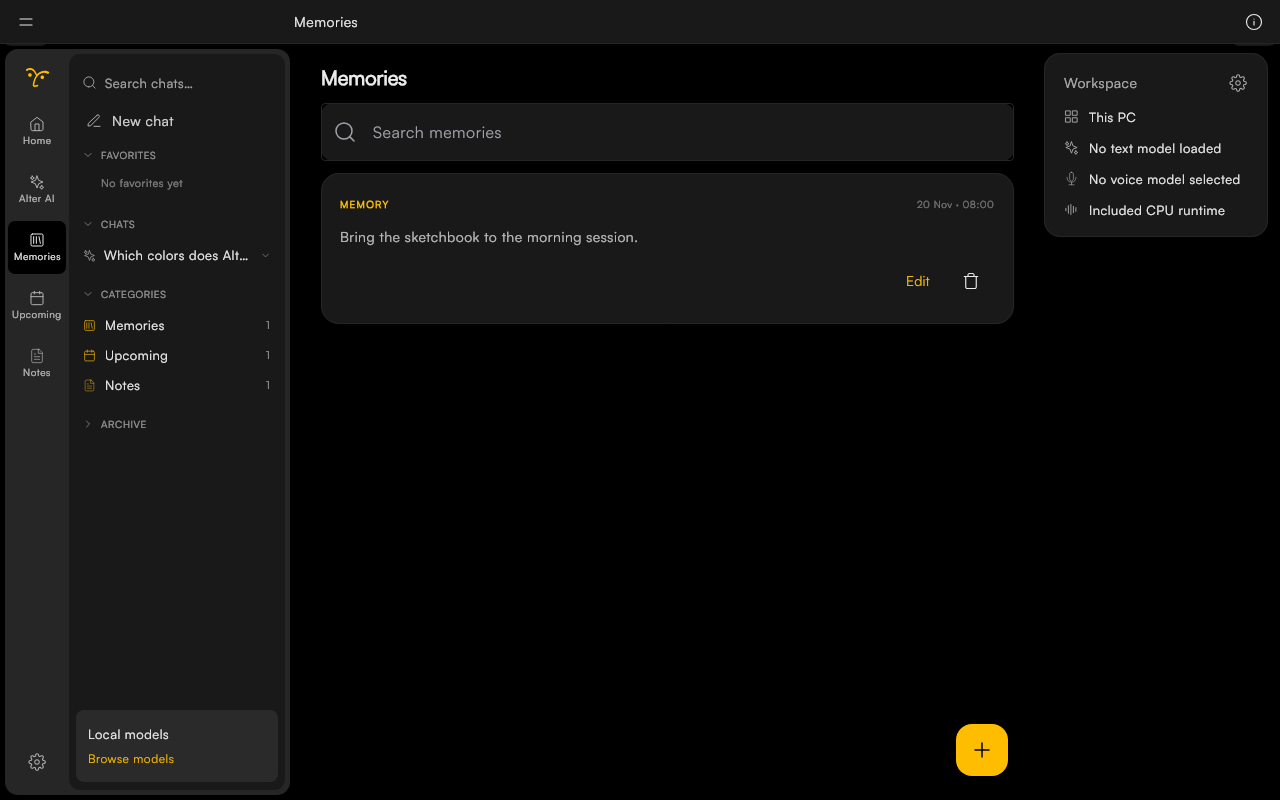
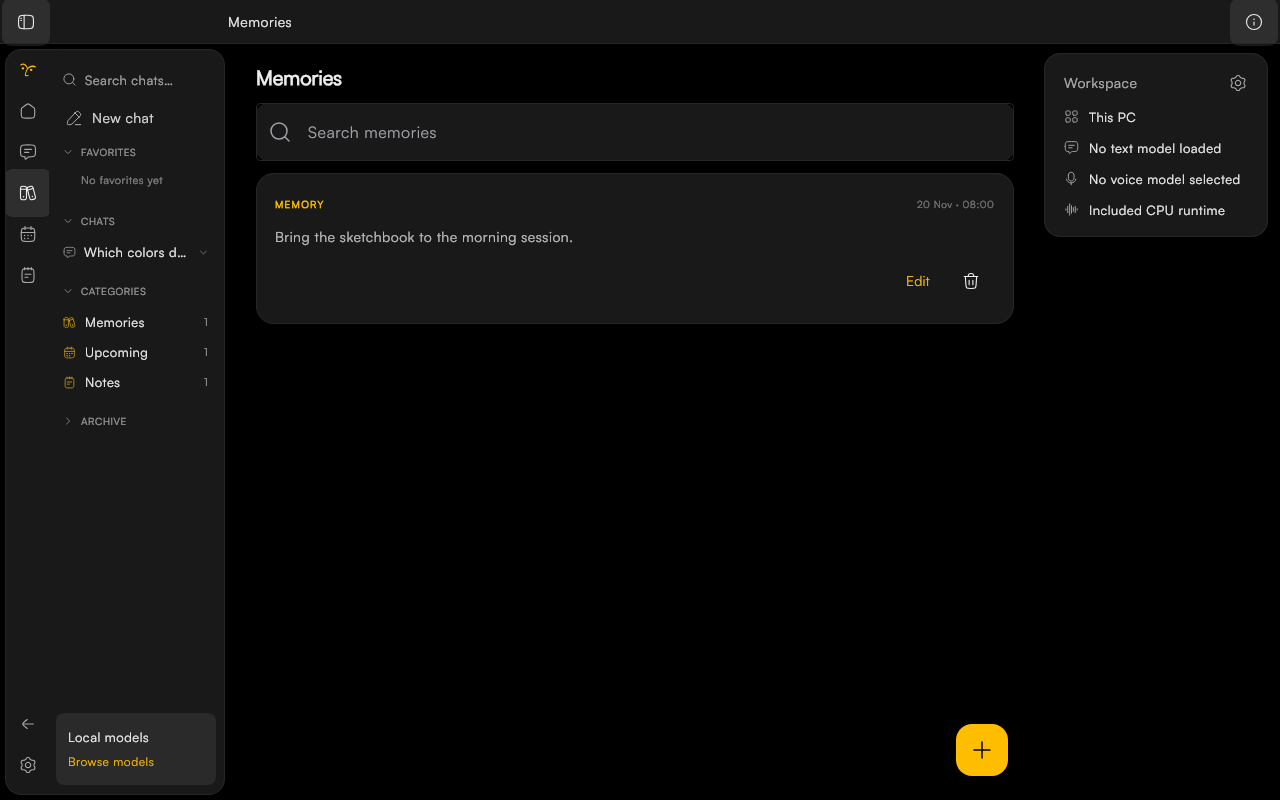
Compact the collapsible navigation and use rounded Hugeicons

diff --git a/src/main/kotlin/com/example/ui/AlterIcons.kt b/src/main/kotlin/com/example/ui/AlterIcons.kt
@@ -1,0 +1,58 @@
+package com.example.ui
+
+import androidx.compose.ui.graphics.*
+import androidx.compose.ui.graphics.vector.ImageVector
+import androidx.compose.ui.graphics.vector.PathParser
+import androidx.compose.ui.unit.dp
+
+/**
+ * App-wide icon set: Hugeicons free "Stroke Rounded" (MIT, @hugeicons/core-free-icons 4.4.0; notice in
+ * licenses/hugeicons-MIT.txt). 24-unit grid, 1.5 stroke, round caps/joins. Generated from the package data;
+ * the Alter AI mark (R.drawable.ic_alter_ai_doodle / AlterMark) is the only non-Hugeicons glyph.
+ * Each part is "S|d" (stroke), "F|d" (fill) or "B|d" (both), optionally "S@0.4|d" for opacity.
+ */
+object AlterIcons {
+    val ArrowLeft: ImageVector by lazy { huge("ArrowLeft02", "S|M5.5 12.002H19", "S|M10.9999 18.002C10.9999 18.002 4.99998 13.583 4.99997 12.0019C4.99996 10.4208 11 6.00195 11 6.00195") }
+    val ArrowRight: ImageVector by lazy { huge("ArrowRight02", "S|M18.5 12L4.99997 12", "S|M13 18C13 18 19 13.5811 19 12C19 10.4188 13 6 13 6") }
+    val Calendar: ImageVector by lazy { huge("Calendar03", "S|M16 2V6M8 2V6", "S|M13 4H11C7.22876 4 5.34315 4 4.17157 5.17157C3 6.34315 3 8.22876 3 12V14C3 17.7712 3 19.6569 4.17157 20.8284C5.34315 22 7.22876 22 11 22H13C16.7712 22 18.6569 22 19.8284 20.8284C21 19.6569 21 17.7712 21 14V12C21 8.22876 21 6.34315 19.8284 5.17157C18.6569 4 16.7712 4 13 4Z", "S|M3 10H21", "S|M12.1258 14H12.0008M12.1258 18H12.0008M7.625 14H7.5M7.625 18H7.5M16.625 14H16.5M12.2508 14C12.2508 14.1381 12.1389 14.25 12.0008 14.25C11.8628 14.25 11.7508 14.1381 11.7508 14C11.7508 13.8619 11.8628 13.75 12.0008 13.75C12.1389 13.75 12.2508 13.8619 12.2508 14ZM12.2508 18C12.2508 18.1381 12.1389 18.25 12.0008 18.25C11.8628 18.25 11.7508 18.1381 11.7508 18C11.7508 17.8619 11.8628 17.75 12.0008 17.75C12.1389 17.75 12.2508 17.8619 12.2508 18ZM7.75 14C7.75 14.1381 7.63807 14.25 7.5 14.25C7.36193 14.25 7.25 14.1381 7.25 14C7.25 13.8619 7.36193 13.75 7.5 13.75C7.63807 13.75 7.75 13.8619 7.75 14ZM7.75 18C7.75 18.1381 7.63807 18.25 7.5 18.25C7.36193 18.25 7.25 18.1381 7.25 18C7.25 17.8619 7.36193 17.75 7.5 17.75C7.63807 17.75 7.75 17.8619 7.75 18ZM16.75 14C16.75 14.1381 16.6381 14.25 16.5 14.25C16.3619 14.25 16.25 14.1381 16.25 14C16.25 13.8619 16.3619 13.75 16.5 13.75C16.6381 13.75 16.75 13.8619 16.75 14Z") }
+    val ChevronDown: ImageVector by lazy { huge("ArrowDown01", "S|M18 9.00005C18 9.00005 13.5811 15 12 15C10.4188 15 6 9 6 9") }
+    val ChevronRight: ImageVector by lazy { huge("ArrowRight01", "S|M9.00005 6C9.00005 6 15 10.4189 15 12C15 13.5812 9 18 9 18") }
+    val Copy: ImageVector by lazy { huge("Copy01", "S|M7.5 14.5C7.5 11.2002 7.5 9.55025 8.52513 8.52513C9.55025 7.5 11.2002 7.5 14.5 7.5C17.7998 7.5 19.4497 7.5 20.4749 8.52513C21.5 9.55025 21.5 11.2002 21.5 14.5C21.5 17.7998 21.5 19.4497 20.4749 20.4749C19.4497 21.5 17.7998 21.5 14.5 21.5C11.2002 21.5 9.55025 21.5 8.52513 20.4749C7.5 19.4497 7.5 17.7998 7.5 14.5Z", "S|M7.5 16.5C6.10355 16.5 5.40533 16.5 4.84402 16.3036C3.83866 15.9518 3.0482 15.1613 2.69641 14.156C2.5 13.5947 2.5 12.8964 2.5 11.5V9.5C2.5 6.20017 2.5 4.55025 3.52513 3.52513C4.55025 2.5 6.20017 2.5 9.5 2.5H11.5C12.8964 2.5 13.5947 2.5 14.156 2.69641C15.1613 3.0482 15.9518 3.83866 16.3036 4.84402C16.5 5.40533 16.5 6.10355 16.5 7.5") }
+    val Edit: ImageVector by lazy { huge("Edit02", "S|M14.0737 3.88545C14.8189 3.07808 15.1915 2.6744 15.5874 2.43893C16.5427 1.87076 17.7191 1.85309 18.6904 2.39232C19.0929 2.6158 19.4769 3.00812 20.245 3.79276C21.0131 4.5774 21.3972 4.96972 21.6159 5.38093C22.1438 6.37312 22.1265 7.57479 21.5703 8.5507C21.3398 8.95516 20.9446 9.33578 20.1543 10.097L10.7506 19.1543C9.25288 20.5969 8.504 21.3182 7.56806 21.6837C6.63212 22.0493 5.6032 22.0224 3.54536 21.9686L3.26538 21.9613C2.63891 21.9449 2.32567 21.9367 2.14359 21.73C1.9615 21.5234 1.98636 21.2043 2.03608 20.5662L2.06308 20.2197C2.20301 18.4235 2.27297 17.5255 2.62371 16.7182C2.97444 15.9109 3.57944 15.2555 4.78943 13.9445L14.0737 3.88545Z", "S|M13 4L20 11", "S|M14 22L22 22") }
+    val FileText: ImageVector by lazy { huge("Note01", "S|M16.5 2V5M7.5 2V5M12 2V5", "S|M13 3.5H11C7.70017 3.5 6.05025 3.5 5.02513 4.52513C4 5.55025 4 7.20017 4 10.5V15C4 18.2998 4 19.9497 5.02513 20.9749C6.05025 22 7.70017 22 11 22H13C16.2998 22 17.9497 22 18.9749 20.9749C20 19.9497 20 18.2998 20 15V10.5C20 7.20017 20 5.55025 18.9749 4.52512C17.9497 3.5 16.2998 3.5 13 3.5Z", "S|M8 15H12M8 11H16") }
+    val Grid: ImageVector by lazy { huge("GridView", "S|M3.88884 9.66294C4.39329 10 5.09552 10 6.49998 10C7.90445 10 8.60668 10 9.11113 9.66294C9.32951 9.51702 9.51701 9.32952 9.66292 9.11114C9.99998 8.60669 9.99998 7.90446 9.99998 6.5C9.99998 5.09554 9.99998 4.39331 9.66292 3.88886C9.51701 3.67048 9.32951 3.48298 9.11113 3.33706C8.60668 3 7.90445 3 6.49998 3C5.09552 3 4.39329 3 3.88884 3.33706C3.67046 3.48298 3.48296 3.67048 3.33705 3.88886C2.99998 4.39331 2.99998 5.09554 2.99998 6.5C2.99998 7.90446 2.99998 8.60669 3.33705 9.11114C3.48296 9.32952 3.67046 9.51702 3.88884 9.66294Z", "S|M14.8888 9.66294C15.3933 10 16.0955 10 17.5 10C18.9044 10 19.6067 10 20.1111 9.66294C20.3295 9.51702 20.517 9.32952 20.6629 9.11114C21 8.60669 21 7.90446 21 6.5C21 5.09554 21 4.39331 20.6629 3.88886C20.517 3.67048 20.3295 3.48298 20.1111 3.33706C19.6067 3 18.9044 3 17.5 3C16.0955 3 15.3933 3 14.8888 3.33706C14.6705 3.48298 14.483 3.67048 14.337 3.88886C14 4.39331 14 5.09554 14 6.5C14 7.90446 14 8.60669 14.337 9.11114C14.483 9.32952 14.6705 9.51702 14.8888 9.66294Z", "S|M3.88884 20.6629C4.39329 21 5.09552 21 6.49998 21C7.90445 21 8.60668 21 9.11113 20.6629C9.32951 20.517 9.51701 20.3295 9.66292 20.1111C9.99998 19.6067 9.99998 18.9045 9.99998 17.5C9.99998 16.0955 9.99998 15.3933 9.66292 14.8889C9.51701 14.6705 9.32951 14.483 9.11113 14.3371C8.60668 14 7.90445 14 6.49998 14C5.09552 14 4.39329 14 3.88884 14.3371C3.67046 14.483 3.48296 14.6705 3.33705 14.8889C2.99998 15.3933 2.99998 16.0955 2.99998 17.5C2.99998 18.9045 2.99998 19.6067 3.33705 20.1111C3.48296 20.3295 3.67046 20.517 3.88884 20.6629Z", "S|M14.8888 20.6629C15.3933 21 16.0955 21 17.5 21C18.9044 21 19.6067 21 20.1111 20.6629C20.3295 20.517 20.517 20.3295 20.6629 20.1111C21 19.6067 21 18.9045 21 17.5C21 16.0955 21 15.3933 20.6629 14.8889C20.517 14.6705 20.3295 14.483 20.1111 14.3371C19.6067 14 18.9044 14 17.5 14C16.0955 14 15.3933 14 14.8888 14.3371C14.6705 14.483 14.483 14.6705 14.337 14.8889C14 15.3933 14 16.0955 14 17.5C14 18.9045 14 19.6067 14.337 20.1111C14.483 20.3295 14.6705 20.517 14.8888 20.6629Z") }
+    val Home: ImageVector by lazy { huge("Home01", "S|M3 11.9896V14.5C3 17.7998 3 19.4497 4.02513 20.4749C5.05025 21.5 6.70017 21.5 10 21.5H14C17.2998 21.5 18.9497 21.5 19.9749 20.4749C21 19.4497 21 17.7998 21 14.5V11.9896C21 10.3083 21 9.46773 20.6441 8.74005C20.2882 8.01237 19.6247 7.49628 18.2976 6.46411L16.2976 4.90855C14.2331 3.30285 13.2009 2.5 12 2.5C10.7991 2.5 9.76689 3.30285 7.70242 4.90855L5.70241 6.46411C4.37533 7.49628 3.71179 8.01237 3.3559 8.74005C3 9.46773 3 10.3083 3 11.9896Z") }
+    val Info: ImageVector by lazy { huge("InformationCircle", "S|M2 12a10 10 0 1 0 20 0a10 10 0 1 0 -20 0Z", "S|M12 16V12", "S|M12.125 8.25H12M12.25 8.25C12.25 8.11193 12.1381 8 12 8C11.8619 8 11.75 8.11193 11.75 8.25C11.75 8.38807 11.8619 8.5 12 8.5C12.1381 8.5 12.25 8.38807 12.25 8.25Z") }
+    val Memories: ImageVector by lazy { huge("Library", "S|M2 7C2 5.59987 2 4.8998 2.27248 4.36502C2.51217 3.89462 2.89462 3.51217 3.36502 3.27248C3.8998 3 4.59987 3 6 3C7.40013 3 8.1002 3 8.63498 3.27248C9.10538 3.51217 9.48783 3.89462 9.72752 4.36502C10 4.8998 10 5.59987 10 7V17C10 18.4001 10 19.1002 9.72752 19.635C9.48783 20.1054 9.10538 20.4878 8.63498 20.7275C8.1002 21 7.40013 21 6 21C4.59987 21 3.8998 21 3.36502 20.7275C2.89462 20.4878 2.51217 20.1054 2.27248 19.635C2 19.1002 2 18.4001 2 17V7Z", "S|M6.125 17H6M6.25 17C6.25 17.1381 6.13807 17.25 6 17.25C5.86193 17.25 5.75 17.1381 5.75 17C5.75 16.8619 5.86193 16.75 6 16.75C6.13807 16.75 6.25 16.8619 6.25 17Z", "S|M17.9062 16.6934H17.7812M18.0312 16.6934C18.0312 16.8314 17.9193 16.9434 17.7812 16.9434C17.6432 16.9434 17.5312 16.8314 17.5312 16.6934C17.5312 16.5553 17.6432 16.4434 17.7812 16.4434C17.9193 16.4434 18.0312 16.5553 18.0312 16.6934Z", "S|M2 7H10", "S|M11.4486 8.26843C11.0937 6.93838 10.9163 6.27336 11.0385 5.69599C11.146 5.18812 11.4108 4.72747 11.7951 4.38005C12.2319 3.98508 12.8942 3.80689 14.2187 3.4505C15.5432 3.09412 16.2055 2.91593 16.7804 3.03865C17.2862 3.1466 17.7449 3.41256 18.0909 3.79841C18.4842 4.23706 18.6617 4.90209 19.0166 6.23213L21.5514 15.7316C21.9063 17.0616 22.0837 17.7266 21.9615 18.304C21.854 18.8119 21.5892 19.2725 21.2049 19.62C20.7681 20.0149 20.1058 20.1931 18.7813 20.5495C17.4568 20.9059 16.7945 21.0841 16.2196 20.9614C15.7138 20.8534 15.2551 20.5874 14.9091 20.2016C14.5158 19.7629 14.3383 19.0979 13.9834 17.7679L11.4486 8.26843Z", "S|M12 8.00019L18.5001 6") }
+    val Mic: ImageVector by lazy { huge("Mic01", "S|M7 6.5C7 4.01472 9.01472 2 11.5 2C13.9853 2 16 4.01472 16 6.5V11.5C16 13.9853 13.9853 16 11.5 16C9.01472 16 7 13.9853 7 11.5V6.5Z", "S|M11.5 19H11.0828C7.57267 19 4.57706 16.4623 4 13M11.5 19H11.9172C15.4273 19 18.4229 16.4623 19 13M11.5 19V22") }
+    val Pin: ImageVector by lazy { huge("Pin", "S|M3 21L8 16", "S|M13.2585 18.8714C9.51516 18.0215 5.97844 14.4848 5.12853 10.7415C4.99399 10.1489 4.92672 9.85266 5.12161 9.37197C5.3165 8.89129 5.55457 8.74255 6.03071 8.44509C7.10705 7.77265 8.27254 7.55888 9.48209 7.66586C11.1793 7.81598 12.0279 7.89104 12.4512 7.67048C12.8746 7.44991 13.1622 6.93417 13.7376 5.90269L14.4664 4.59604C14.9465 3.73528 15.1866 3.3049 15.7513 3.10202C16.316 2.89913 16.6558 3.02199 17.3355 3.26771C18.9249 3.84236 20.1576 5.07505 20.7323 6.66449C20.978 7.34417 21.1009 7.68401 20.898 8.2487C20.6951 8.8134 20.2647 9.05346 19.4039 9.53358L18.0672 10.2792C17.0376 10.8534 16.5229 11.1406 16.3024 11.568C16.0819 11.9955 16.162 12.8256 16.3221 14.4859C16.4399 15.7068 16.2369 16.88 15.5555 17.9697C15.2577 18.4458 15.1088 18.6839 14.6283 18.8786C14.1477 19.0733 13.8513 19.006 13.2585 18.8714Z") }
+    val Plus: ImageVector by lazy { huge("Add01", "S|M12.001 4.00101V20.001", "S|M20.001 12.001L4.00098 12.001") }
+    val Search: ImageVector by lazy { huge("Search01", "S|M17 17L21 21", "S|M19 11C19 6.58172 15.4183 3 11 3C6.58172 3 3 6.58172 3 11C3 15.4183 6.58172 19 11 19C15.4183 19 19 15.4183 19 11Z") }
+    val Settings: ImageVector by lazy { huge("Settings01", "S|M3.95631 10.5829L3.03254 9.07084C2.74505 8.60024 2.7389 8.00978 3.01652 7.5333L3.63533 6.47124C3.90953 6.00064 4.41721 5.71571 4.96162 5.7269L6.69131 5.76245C6.92616 5.76728 7.15379 5.68727 7.34333 5.54846C7.79531 5.21745 8.28334 4.93276 8.80042 4.70139C9.01191 4.60675 9.19222 4.45165 9.30469 4.24903L10.1203 2.77965C10.3847 2.30328 10.8865 2.00781 11.4312 2.00781H12.6937C13.2384 2.00781 13.7403 2.30329 14.0047 2.77966L14.8202 4.24902C14.9327 4.45165 15.113 4.60675 15.3245 4.70139C15.8416 4.93274 16.3296 5.2174 16.7815 5.54838C16.9711 5.68718 17.1987 5.76718 17.4336 5.76235L19.1634 5.72676C19.7078 5.71557 20.2155 6.00049 20.4897 6.47111L21.1085 7.53314C21.3862 8.00963 21.38 8.60009 21.0925 9.07068L20.1687 10.5828C20.0481 10.7803 20.002 11.0134 20.0235 11.2439C20.0707 11.7486 20.0707 12.267 20.0235 12.7717C20.002 13.0022 20.0481 13.2353 20.1687 13.4329L21.0924 14.9448C21.3799 15.4154 21.3861 16.0058 21.1084 16.4823L20.4896 17.5444C20.2154 18.015 19.7077 18.2999 19.1633 18.2887L17.4338 18.2531C17.1989 18.2483 16.9713 18.3283 16.7817 18.4671C16.3297 18.7982 15.8416 19.0829 15.3245 19.3142C15.113 19.4089 14.9327 19.564 14.8202 19.7666L14.0047 21.236C13.7403 21.7123 13.2384 22.0078 12.6937 22.0078H11.4312C10.8866 22.0078 10.3847 21.7123 10.1203 21.236L9.30468 19.7665C9.19222 19.5639 9.01191 19.4088 8.80042 19.3142C8.28329 19.0828 7.79519 18.798 7.34316 18.467C7.15362 18.3282 6.92597 18.2482 6.69111 18.253L4.96175 18.2886C4.41733 18.2998 3.90963 18.0148 3.63543 17.5442L3.01663 16.4822C2.739 16.0057 2.74515 15.4152 3.03264 14.9446L3.95631 13.4327C4.07699 13.2351 4.12309 13.002 4.10154 12.7715C4.05437 12.267 4.05438 11.7486 4.10154 11.244C4.12308 11.0135 4.07699 10.7805 3.95631 10.5829Z", "S|M8.5625 12.0078a3.5 3.5 0 1 0 7 0a3.5 3.5 0 1 0 -7 0Z") }
+    val Stop: ImageVector by lazy { huge("Stop", "S|M4 12C4 8.72077 4 7.08116 4.81382 5.91891C5.1149 5.48891 5.48891 5.1149 5.91891 4.81382C7.08116 4 8.72077 4 12 4C15.2792 4 16.9188 4 18.0811 4.81382C18.5111 5.1149 18.8851 5.48891 19.1862 5.91891C20 7.08116 20 8.72077 20 12C20 15.2792 20 16.9188 19.1862 18.0811C18.8851 18.5111 18.5111 18.8851 18.0811 19.1862C16.9188 20 15.2792 20 12 20C8.72077 20 7.08116 20 5.91891 19.1862C5.48891 18.8851 5.1149 18.5111 4.81382 18.0811C4 16.9188 4 15.2792 4 12Z") }
+    val Trash: ImageVector by lazy { huge("Delete02", "S|M18.8516 16.3743L19.5 6H4.5L5.14839 16.3743C5.315 19.0401 5.39831 20.373 6.26426 21.1865C7.13021 22 8.46571 22 11.1367 22H12.8633C15.5343 22 16.8698 22 17.7357 21.1865C18.6017 20.373 18.685 19.0401 18.8516 16.3743Z", "S|M16 6H21M16 6L15.3778 4.34082C15.0007 3.33524 14.8122 2.83245 14.4402 2.50292C14.3213 2.39765 14.1904 2.3069 14.0501 2.2326C13.6109 2 13.074 2 12 2C10.926 2 10.3891 2 9.9499 2.2326C9.8096 2.3069 9.67865 2.39765 9.55982 2.50292C9.18783 2.83245 8.99928 3.33524 8.62219 4.34082L8 6M16 6H8M3 6H8", "S|M9.5 11V17M14.5 11V17") }
+    val Waves: ImageVector by lazy { huge("AudioWave01", "S|M9 3V21", "S|M6 7V17", "S|M12 6V18", "S|M15 9L15 15", "S|M18 7L18 17", "S|M21 11L21 13", "S|M3 11L3 13") }
+
+    val Chat: ImageVector by lazy { huge("Chat01", "S|M7.5 8.5H16.5M7.5 12.5H13", "S|M2 10.5C2 9.72921 2.01346 8.97679 2.03909 8.2503C2.12282 5.87683 2.16469 4.69009 3.13007 3.71745C4.09545 2.74481 5.3157 2.6926 7.7562 2.58819C9.09517 2.5309 10.5209 2.5 12 2.5C13.4791 2.5 14.9048 2.5309 16.2438 2.58819C18.6843 2.6926 19.9046 2.74481 20.8699 3.71745C21.8353 4.69009 21.8772 5.87683 21.9609 8.2503C21.9865 8.97679 22 9.72921 22 10.5C22 11.2708 21.9865 12.0232 21.9609 12.7497C21.8772 15.1232 21.8353 16.3099 20.8699 17.2826C19.9046 18.2552 18.6843 18.3074 16.2437 18.4118C15.5098 18.4432 14.7498 18.4667 13.9693 18.4815C13.2282 18.4955 12.8576 18.5026 12.532 18.6266C12.2064 18.7506 11.9325 18.9855 11.3845 19.4553L9.20503 21.3242C9.07273 21.4376 8.90419 21.5 8.72991 21.5C8.32679 21.5 8 21.1732 8 20.7701V18.4219C7.91842 18.4186 7.83715 18.4153 7.75619 18.4118C5.31569 18.3074 4.09545 18.2552 3.13007 17.2825C2.16469 16.3099 2.12282 15.1232 2.03909 12.7497C2.01346 12.0232 2 11.2708 2 10.5Z") }
+
+    val SidebarLeft: ImageVector by lazy { huge("SidebarLeft", "S|M2 12C2 8.31087 2 6.4663 2.81382 5.15877C3.1149 4.67502 3.48891 4.25427 3.91891 3.91554C5.08116 3 6.72077 3 10 3H14C17.2792 3 18.9188 3 20.0811 3.91554C20.5111 4.25427 20.8851 4.67502 21.1862 5.15877C22 6.4663 22 8.31087 22 12C22 15.6891 22 17.5337 21.1862 18.8412C20.8851 19.325 20.5111 19.7457 20.0811 20.0845C18.9188 21 17.2792 21 14 21H10C6.72077 21 5.08116 21 3.91891 20.0845C3.48891 19.7457 3.1149 19.325 2.81382 18.8412C2 17.5337 2 15.6891 2 12Z", "S|M9.5 3L9.5 21", "S|M5 7H6M5 10H6") }
+
+    private fun huge(name: String, vararg parts: String): ImageVector =
+        ImageVector.Builder("Hugeicons.$name", 24.dp, 24.dp, 24f, 24f).apply {
+            parts.forEach { part ->
+                val head = part.substringBefore('|')
+                val mode = head.first()
+                val alpha = head.substringAfter('@', "1").toFloat()
+                addPath(
+                    PathParser().parsePathString(part.substringAfter('|')).toNodes(),
+                    fill = if (mode == 'F' || mode == 'B') SolidColor(Color.White) else null,
+                    fillAlpha = alpha,
+                    stroke = if (mode == 'S' || mode == 'B') SolidColor(Color.White) else null,
+                    strokeAlpha = alpha,
+                    strokeLineWidth = 1.5f,
+                    strokeLineCap = StrokeCap.Round,
+                    strokeLineJoin = StrokeJoin.Round
+                )
+            }
+        }.build()
+}

diff --git a/src/main/kotlin/alter/Workspace.kt b/src/main/kotlin/alter/Workspace.kt
@@ -19,12 +19,12 @@ import androidx.compose.ui.semantics.*
 import androidx.compose.ui.text.font.FontWeight
 import androidx.compose.ui.text.style.TextOverflow
 import androidx.compose.ui.unit.*
-import com.example.ui.Lucide
+import com.example.ui.AlterIcons
 import com.example.ui.theme.AlterYellow
 
 internal enum class Destination(val title: String, val icon: ImageVector) {
-    Home("Home", Lucide.Home), Chat("Alter AI", Lucide.Sparkles), Memories("Memories", Lucide.Memories),
-    Upcoming("Upcoming", Lucide.Calendar), Notes("Notes", Lucide.FileText)
+    Home("Home", AlterIcons.Home), Chat("Alter AI", AlterIcons.Chat), Memories("Memories", AlterIcons.Memories),
+    Upcoming("Upcoming", AlterIcons.Calendar), Notes("Notes", AlterIcons.FileText)
 }
 internal val settingsPages = listOf("Appearance", "AI models", "Voice & files", "Backup & account", "About")
 
@@ -35,7 +35,7 @@ internal fun WorkspaceButton(icon: ImageVector, label: String, selected: Boolean
     TooltipArea(tooltip = { Surface(shape = RoundedCornerShape(6.dp), shadowElevation = 4.dp) {
         Text(label, Modifier.padding(horizontal = 9.dp, vertical = 5.dp), fontSize = 12.sp)
     } }) {
-        IconButton(onClick, Modifier.size(36.dp).background(if (selected) c.secondaryContainer else Color.Transparent,
+        IconButton(onClick, Modifier.size(36.dp).background(if (selected) c.onSurface.copy(alpha = .10f) else Color.Transparent,
             RoundedCornerShape(9.dp)).semantics { this.selected = selected }) {
             Icon(icon, label, Modifier.size(18.dp), tint = c.onSurface.copy(alpha = if (selected) 1f else .68f))
         }
@@ -43,23 +43,18 @@ internal fun WorkspaceButton(icon: ImageVector, label: String, selected: Boolean
 }
 
 @Composable
-internal fun ActivityRail(current: Destination, settings: Boolean, select: (Destination) -> Unit, openSettings: () -> Unit) {
+internal fun ActivityRail(current: Destination, settings: Boolean, select: (Destination) -> Unit, openSettings: () -> Unit, collapse: (() -> Unit)?) {
     val c = MaterialTheme.colorScheme
-    Column(Modifier.width(64.dp).fillMaxHeight().padding(vertical = 10.dp, horizontal = 3.dp),
+    Column(Modifier.width(42.dp).fillMaxHeight().padding(vertical = 10.dp, horizontal = 3.dp),
         horizontalAlignment = Alignment.CenterHorizontally, verticalArrangement = Arrangement.spacedBy(5.dp)) {
-        Icon(painterResource("alter-logo.xml"), "Alter", Modifier.padding(bottom = 9.dp).size(27.dp), AlterYellow)
+        Icon(painterResource("alter-logo.xml"), "Alter", Modifier.padding(bottom = 9.dp).size(18.dp), AlterYellow)
         Destination.entries.forEach { tab ->
             val selected = !settings && current == tab
-            Column(Modifier.fillMaxWidth().height(53.dp).clip(RoundedCornerShape(7.dp))
-                .background(if (selected) c.background else Color.Transparent).semantics { this.selected = selected }
-                .clickable(role = Role.Tab) { select(tab) }, verticalArrangement = Arrangement.Center,
-                horizontalAlignment = Alignment.CenterHorizontally) {
-                Icon(tab.icon, null, Modifier.size(16.dp), tint = c.onSurface.copy(alpha = if (selected) 1f else .70f))
-                Text(tab.title, fontSize = 10.sp, lineHeight = 16.sp, color = c.onSurface.copy(alpha = if (selected) 1f else .75f))
-            }
+            WorkspaceButton(tab.icon, tab.title, selected) { select(tab) }
         }
         Spacer(Modifier.weight(1f))
-        WorkspaceButton(Lucide.Settings, "Settings", settings, openSettings)
+        collapse?.let { WorkspaceButton(AlterIcons.ArrowLeft, "Collapse navigation", onClick = it) }
+        WorkspaceButton(AlterIcons.Settings, "Settings", settings, openSettings)
     }
 }
 
@@ -68,7 +63,7 @@ internal fun WorkspaceRow(title: String, icon: ImageVector? = null, selected: Bo
     enabled: Boolean = true, onClick: () -> Unit) {
     val c = MaterialTheme.colorScheme
     Row(Modifier.fillMaxWidth().height(36.dp).clip(RoundedCornerShape(8.dp))
-        .background(if (selected) c.secondaryContainer else Color.Transparent)
+        .background(if (selected) c.onSurface.copy(alpha = .10f) else Color.Transparent)
         .clickable(enabled = enabled, role = Role.Button, onClick = onClick).padding(horizontal = 10.dp),
         verticalAlignment = Alignment.CenterVertically, horizontalArrangement = Arrangement.spacedBy(10.dp)) {
         if (icon != null) Icon(icon, null, Modifier.size(16.dp), tint = c.onSurface.copy(alpha = .70f))
@@ -82,7 +77,7 @@ private fun SectionHeader(name: String, expanded: Boolean, toggle: () -> Unit) {
     val tint = MaterialTheme.colorScheme.onSurface.copy(alpha = .60f)
     Row(Modifier.fillMaxWidth().height(32.dp).clickable(role = Role.Button, onClick = toggle).padding(horizontal = 6.dp),
         verticalAlignment = Alignment.CenterVertically, horizontalArrangement = Arrangement.spacedBy(7.dp)) {
-        Icon(if (expanded) Lucide.ChevronDown else Lucide.ChevronRight, if (expanded) "Collapse" else "Expand", Modifier.size(12.dp), tint)
+        Icon(if (expanded) AlterIcons.ChevronDown else AlterIcons.ChevronRight, if (expanded) "Collapse" else "Expand", Modifier.size(12.dp), tint)
         Text(name.uppercase(), fontSize = 10.sp, letterSpacing = .6.sp, color = tint)
     }
 }
@@ -95,7 +90,7 @@ internal fun WorkspaceSidebar(settings: String?, active: Long?, threads: List<Ch
     val c = MaterialTheme.colorScheme
     val expanded = remember { mutableStateMapOf("Favorites" to true, "Chats" to true, "Categories" to true, "Archive" to false) }
     Column(Modifier.fillMaxSize().clip(RoundedCornerShape(11.dp)).background(
-        c.surfaceContainerLow).padding(vertical = 8.dp, horizontal = 7.dp)) {
+        c.surface).padding(vertical = 8.dp, horizontal = 7.dp)) {
         if (settings != null) {
             Text("Settings", Modifier.padding(10.dp), fontSize = 16.sp, fontWeight = FontWeight.Bold)
             settingsPages.forEach { WorkspaceRow(it, selected = settings == it) { openSettings(it) } }
@@ -105,11 +100,11 @@ internal fun WorkspaceSidebar(settings: String?, active: Long?, threads: List<Ch
                 cursorBrush = SolidColor(c.primary), decorationBox = { inner ->
                     Row(Modifier.height(29.dp), verticalAlignment = Alignment.CenterVertically,
                         horizontalArrangement = Arrangement.spacedBy(8.dp)) {
-                        Icon(Lucide.Search, null, Modifier.size(15.dp), c.onSurface.copy(alpha = .65f))
+                        Icon(AlterIcons.Search, null, Modifier.size(15.dp), c.onSurface.copy(alpha = .65f))
                         Box(Modifier.weight(1f)) { if (search.isEmpty()) Text("Search chats…", fontSize = 13.sp, color = c.onSurface.copy(alpha = .66f)); inner() }
                     }
                 })
-            WorkspaceRow("New chat", Lucide.Edit, enabled = canSwitch, onClick = newChat)
+            WorkspaceRow("New chat", AlterIcons.Edit, enabled = canSwitch, onClick = newChat)
             LazyColumn(Modifier.fillMaxWidth().weight(1f)) {
                 if (search.isNotBlank() && threads.isEmpty()) item { Text("No matching chats", Modifier.padding(8.dp), fontSize = 13.sp) }
                 for (name in listOf("Favorites", "Chats", "Categories", "Archive")) {
@@ -143,14 +138,14 @@ internal fun WorkspaceSidebar(settings: String?, active: Long?, threads: List<Ch
                                 verticalAlignment = Alignment.CenterVertically) {
                                 Row(Modifier.weight(1f).fillMaxHeight().clickable(enabled = canSwitch) { openThread(thread.id) }.padding(start = 7.dp),
                                     verticalAlignment = Alignment.CenterVertically, horizontalArrangement = Arrangement.spacedBy(8.dp)) {
-                                    Icon(if (thread.favorite) Lucide.Pin else Lucide.Sparkles, null, Modifier.size(13.dp),
+                                    Icon(if (thread.favorite) AlterIcons.Pin else AlterIcons.Chat, null, Modifier.size(13.dp),
                                         if (thread.favorite) c.primary else c.onSurface.copy(alpha = .6f))
                                     Text(thread.title, fontSize = 13.sp, maxLines = 1, overflow = TextOverflow.Ellipsis)
                                 }
                                 Box {
                                     Box(Modifier.size(26.dp).clickable(enabled = canSwitch) { menu = true }
                                         .semantics { contentDescription = "Chat options for ${thread.title}" }, contentAlignment = Alignment.Center) {
-                                        Icon(Lucide.ChevronDown, null, Modifier.size(11.dp), c.onSurface.copy(alpha = .58f))
+                                        Icon(AlterIcons.ChevronDown, null, Modifier.size(11.dp), c.onSurface.copy(alpha = .58f))
                                     }
                                     DropdownMenu(menu, { menu = false }) {
                                         DropdownMenuItem(text = { Text(if (thread.favorite) "Remove from favorites" else "Add to favorites") },
@@ -182,10 +177,10 @@ internal fun WorkspaceDetails(model: String?, voice: String?, runtime: String, m
         .border(1.dp, c.outline, RoundedCornerShape(16.dp)).padding(12.dp)) {
         Row(Modifier.padding(start = 8.dp), verticalAlignment = Alignment.CenterVertically) {
             Text("Workspace", Modifier.weight(1f), fontSize = 14.sp, color = c.onSurface.copy(alpha = .70f))
-            WorkspaceButton(Lucide.Settings, "Manage local models", onClick = manage)
+            WorkspaceButton(AlterIcons.Settings, "Manage local models", onClick = manage)
         }
-        listOf(Lucide.Grid to "This PC", Lucide.Sparkles to (model ?: "No text model loaded"),
-            Lucide.Mic to (voice ?: "No voice model selected"), Lucide.Waves to runtime).forEach { (icon, label) ->
+        listOf(AlterIcons.Grid to "This PC", AlterIcons.Chat to (model ?: "No text model loaded"),
+            AlterIcons.Mic to (voice ?: "No voice model selected"), AlterIcons.Waves to runtime).forEach { (icon, label) ->
             Row(Modifier.fillMaxWidth().heightIn(min = 31.dp).padding(horizontal = 8.dp),
                 verticalAlignment = Alignment.CenterVertically, horizontalArrangement = Arrangement.spacedBy(10.dp)) {
                 Icon(icon, null, Modifier.size(15.dp), tint = c.onSurface.copy(alpha = .68f))

diff --git a/src/main/kotlin/alter/Main.kt b/src/main/kotlin/alter/Main.kt
@@ -259,20 +259,20 @@ private fun AlterApp(store: Store, active: Boolean, preview: String?) {
                     Row(Modifier.fillMaxWidth().height(43.dp).background(colors.surface).padding(horizontal = 8.dp),
                         verticalAlignment = Alignment.CenterVertically) {
                         Box {
-                            WorkspaceButton(Lucide.Menu, "Toggle side panel", sidebar) { sidebar = !sidebar }
+                            WorkspaceButton(AlterIcons.SidebarLeft, if (sidebar) "Collapse navigation" else "Expand navigation", sidebar) { sidebar = !sidebar }
                             if (compact) DropdownMenu(sidebar, { sidebar = false }) {
                                 Box(Modifier.width(245.dp).height(365.dp)) { sidebarContent() }
                             }
                         }
-                        if (sidebar && !compact) Spacer(Modifier.width(236.dp))
+                        if (sidebar && !compact) Spacer(Modifier.width(170.dp))
                         Text(settings ?: if (destination == Destination.Chat) selectedThread?.title ?: "New chat"
                             else destination.title, Modifier.weight(1f).padding(horizontal = 14.dp), fontSize = 14.sp,
                             maxLines = 1, overflow = androidx.compose.ui.text.style.TextOverflow.Ellipsis,
                             fontWeight = FontWeight.Medium)
                         if (settings == null && destination == Destination.Chat && selectedThread != null && canSwitch)
-                            WorkspaceButton(Lucide.Trash, "Delete chat") { deleteChat = selectedThread }
+                            WorkspaceButton(AlterIcons.Trash, "Delete chat") { deleteChat = selectedThread }
                         Box {
-                            WorkspaceButton(Lucide.Info, "Workspace details", details) { details = !details }
+                            WorkspaceButton(AlterIcons.Info, "Workspace details", details) { details = !details }
                             if (!wide) DropdownMenu(details, { details = false }) {
                                 Box(Modifier.width(248.dp)) { detailsContent() }
                             }
@@ -280,12 +280,13 @@ private fun AlterApp(store: Store, active: Boolean, preview: String?) {
                     }
                     HorizontalDivider(color = colors.outline)
                     Row(Modifier.fillMaxSize()) {
-                Row(Modifier.fillMaxHeight().padding(5.dp).clip(RoundedCornerShape(13.dp))
-                    .background(colors.outlineVariant).padding(end = 5.dp, top = 5.dp, bottom = 5.dp)) {
+                if (compact || sidebar) Row(Modifier.fillMaxHeight().padding(5.dp).clip(RoundedCornerShape(16.dp))
+                    .background(colors.surface).border(1.dp, colors.outline, RoundedCornerShape(16.dp)).padding(2.dp)) {
                 ActivityRail(destination, settings != null, { destination = it; settings = null; search = "" },
-                    { settings = "Appearance"; if (!compact) sidebar = true })
+                    { settings = "Appearance"; if (!compact) sidebar = true },
+                    if (compact) null else ({ sidebar = false }))
                 if (sidebar && !compact) {
-                    Box(Modifier.width(216.dp)) { sidebarContent() }
+                    Box(Modifier.width(174.dp)) { sidebarContent() }
                 }
                 }
                 Box(Modifier.weight(1f).fillMaxHeight()) {
@@ -447,7 +448,7 @@ private fun AlterApp(store: Store, active: Boolean, preview: String?) {
                     } else {
                         Text(destination.title, style = MaterialTheme.typography.titleLarge, fontWeight = FontWeight.Bold)
                         OutlinedTextField(search, { search = it }, Modifier.fillMaxWidth().background(colors.surface, RoundedCornerShape(12.dp)), singleLine = true,
-                            placeholder = { Text("Search ${destination.title.lowercase()}") }, leadingIcon = { Icon(Lucide.Search, null) })
+                            placeholder = { Text("Search ${destination.title.lowercase()}") }, leadingIcon = { Icon(AlterIcons.Search, null) })
                         val filtered = content.filter { (it.rawInput + "\n" + it.processedContent).contains(search, ignoreCase = true) }
                         LazyColumn(Modifier.weight(1f).fillMaxWidth(), verticalArrangement = Arrangement.spacedBy(12.dp)) {
                             if (filtered.isEmpty()) item { Box(Modifier.fillMaxWidth().height(200.dp), contentAlignment = Alignment.Center) {
@@ -471,9 +472,9 @@ private fun AlterApp(store: Store, active: Boolean, preview: String?) {
                             exit = fadeOut(tween(140)) + scaleOut(transformOrigin = TransformOrigin(1f, 1f), animationSpec = tween(180))) {
                             Column(Modifier.background(colors.surface, RoundedCornerShape(18.dp))
                                 .border(1.dp, colors.outline, RoundedCornerShape(18.dp)).padding(8.dp)) {
-                                listOf(Triple("Memory", "text", Lucide.Memories),
-                                    Triple("Note", "note", Lucide.FileText),
-                                    Triple("Task", "upcoming", Lucide.Calendar)).forEach { (label, type, icon) ->
+                                listOf(Triple("Memory", "text", AlterIcons.Memories),
+                                    Triple("Note", "note", AlterIcons.FileText),
+                                    Triple("Task", "upcoming", AlterIcons.Calendar)).forEach { (label, type, icon) ->
                                     Row(Modifier.width(156.dp).height(46.dp).clickable {
                                         captureOpen = false
                                         draft = AlterCard(type = type, rawInput = "", processedContent = "")
@@ -488,7 +489,7 @@ private fun AlterApp(store: Store, active: Boolean, preview: String?) {
                         FilledIconButton(onClick = { captureOpen = !captureOpen },
                             modifier = Modifier.size(52.dp), shape = RoundedCornerShape(16.dp),
                             colors = IconButtonDefaults.filledIconButtonColors(containerColor = AlterYellow, contentColor = PitchBlack)) {
-                            Icon(Lucide.Plus, if (captureOpen) "Close capture actions" else "Add capture",
+                            Icon(AlterIcons.Plus, if (captureOpen) "Close capture actions" else "Add capture",
                                 Modifier.size(24.dp).graphicsLayer { rotationZ = rotation })
                         }
                     }
@@ -531,7 +532,7 @@ private fun HomeContent(cards: List<AlterCard>, onChat: () -> Unit, onUpcoming: 
     val tasks = cards.filter { it.type == "upcoming" }.take(2)
     val recent = cards.filter { it.type != "upcoming" }.take(2)
     Column(modifier.verticalScroll(rememberScrollState()), verticalArrangement = Arrangement.spacedBy(26.dp)) {
-        WorkspaceRow("Open Alter AI", Lucide.Sparkles, onClick = onChat)
+        WorkspaceRow("Open Alter AI", AlterIcons.Chat, onClick = onChat)
         Row(Modifier.fillMaxWidth(), verticalAlignment = Alignment.Bottom) {
             Column(Modifier.weight(1f)) {
                 Text("Overview", style = MaterialTheme.typography.titleLarge, fontWeight = FontWeight.Bold)
@@ -591,7 +592,7 @@ private fun EntryCard(card: AlterCard, onEdit: () -> Unit, onDelete: () -> Unit,
         }
         Row(Modifier.fillMaxWidth(), horizontalArrangement = Arrangement.End) {
             TextButton(onClick = onEdit) { Text("Edit") }
-            IconButton(onClick = onDelete) { Icon(Lucide.Trash, "Delete entry", Modifier.size(18.dp)) }
+            IconButton(onClick = onDelete) { Icon(AlterIcons.Trash, "Delete entry", Modifier.size(18.dp)) }
         }
     }
 }

diff --git a/src/main/kotlin/alter/ChatPane.kt b/src/main/kotlin/alter/ChatPane.kt
@@ -23,7 +23,7 @@ import androidx.compose.ui.semantics.semantics
 import androidx.compose.ui.text.AnnotatedString
 import androidx.compose.ui.text.font.FontWeight
 import androidx.compose.ui.unit.*
-import com.example.ui.Lucide
+import com.example.ui.AlterIcons
 import com.example.ui.theme.*
 
 @Composable
@@ -41,7 +41,7 @@ internal fun ChatPane(messages: List<Pair<String,String>>, prompt: String, updat
         if (messages.isEmpty()) {
             Column(Modifier.weight(1f).fillMaxWidth(), horizontalAlignment = Alignment.CenterHorizontally,
                 verticalArrangement = Arrangement.Center) {
-                Icon(painterResource("alter-logo.xml"), null, Modifier.size(36.dp), AlterYellow)
+                Icon(painterResource("alter-logo.xml"), null, Modifier.size(23.dp), AlterYellow)
                 Spacer(Modifier.height(12.dp))
                 Text("What’s on your mind?", style = MaterialTheme.typography.titleLarge, fontWeight = FontWeight.Medium)
             }
@@ -54,7 +54,7 @@ internal fun ChatPane(messages: List<Pair<String,String>>, prompt: String, updat
                         .background(c.secondaryContainer, RoundedCornerShape(16.dp)).padding(horizontal = 15.dp, vertical = 10.dp)
                         else Modifier.fillMaxWidth()) {
                         SelectionContainer { Text(text, style = MaterialTheme.typography.bodyLarge, lineHeight = 25.sp) }
-                        if (!user) WorkspaceButton(Lucide.Memories, "Copy reply") { clipboard.setText(AnnotatedString(text)) }
+                        if (!user) WorkspaceButton(AlterIcons.Copy, "Copy reply") { clipboard.setText(AnnotatedString(text)) }
                     }
                 }
             }
@@ -75,7 +75,7 @@ internal fun ChatPane(messages: List<Pair<String,String>>, prompt: String, updat
                 Row(Modifier.background(c.surface, CircleShape).clickable(enabled = !busy && !generating && !speaking) { modelMenu = true }
                     .padding(horizontal = 9.dp, vertical = 6.dp), verticalAlignment = Alignment.CenterVertically) {
                     Text(activeModel ?: "Model", fontSize = 12.sp)
-                    Icon(Lucide.ChevronDown, "Choose text model", Modifier.padding(start = 4.dp).size(12.dp))
+                    Icon(AlterIcons.ChevronDown, "Choose text model", Modifier.padding(start = 4.dp).size(12.dp))
                 }
                 DropdownMenu(modelMenu, onDismissRequest = { modelMenu = false }) {
                     models.filter { it.kind == "text" }.forEach { spec ->
@@ -88,12 +88,12 @@ internal fun ChatPane(messages: List<Pair<String,String>>, prompt: String, updat
                 }
             }
             IconButton(mic, Modifier.size(34.dp), enabled = !busy && !generating) {
-                Icon(if (speaking) Lucide.Stop else Lucide.Mic, if (speaking) "Stop dictation" else "Dictate", Modifier.size(16.dp))
+                Icon(if (speaking) AlterIcons.Stop else AlterIcons.Mic, if (speaking) "Stop dictation" else "Dictate", Modifier.size(16.dp))
             }
             FilledIconButton(if (generating) stop else send, Modifier.size(32.dp),
                 enabled = generating || (prompt.isNotBlank() && !busy && !speaking),
                 colors = IconButtonDefaults.filledIconButtonColors(containerColor = AlterYellow, contentColor = PitchBlack)) {
-                Icon(if (generating) Lucide.Stop else Lucide.ArrowRight, if (generating) "Stop reply" else "Send message",
+                Icon(if (generating) AlterIcons.Stop else AlterIcons.ArrowRight, if (generating) "Stop reply" else "Send message",
                     Modifier.size(16.dp).graphicsLayer { rotationZ = if (generating) 0f else -90f })
             }
         }

diff --git a/DESIGN_SYSTEM.md b/DESIGN_SYSTEM.md
@@ -8,10 +8,12 @@ The desktop workspace base is explicitly pitch black (#000000). Gray (#191919) i
 
[1 lines of base64/hex data omitted]
 
-The chat dashboard follows the two designer-supplied desktop references. A 43dp toolbar shows the current thread or destination. The left panel combines a 64dp labeled icon rail on charcoal (#262626) with a 216dp inset navigation surface (#191919). Search is always visible in the conversation panel. Favorites, Chats, Categories and Archive collapse independently. The footer opens installed models. Settings uses the inset panel for its categories. Below 850dp the toolbar opens that panel on demand. The workspace-details card sits at the upper right from 1160dp and opens on demand at smaller widths.
+The chat dashboard follows the two designer-supplied desktop references. A 43dp toolbar shows the current thread or destination. The left panel combines a 42dp centered icon rail and a 174dp navigation pane on the same surface and outline as Workspace details. Search is always visible in the conversation panel. Favorites, Chats, Categories and Archive collapse independently. The footer opens installed models. Settings uses the inset panel for its categories. Below 850dp the toolbar opens that panel on demand. The workspace-details card sits at the upper right from 1160dp and opens on demand at smaller widths.
 
 The transcript and bottom composer share an 810dp maximum width. User turns align right in gray capsules, assistant prose aligns left, and completed replies include Copy. The composer holds multiline text, a local model menu, dictation and send/stop. Alter yellow identifies primary actions. The anchored plus menu on the record screens expands to Memory, Note and Task. Actual Compose captures are in design/previews.
 
 One root-owned river simulation/renderer is preserved across destinations and dialogs. Home/Memories/Upcoming/Notes show it only when the destination has no content, independent of search results; chat always shows it, dimmed with saved messages. Source species/geometry/cruise and fixed square ASCII grid are retained. Rendering runs off the UI thread. It pauses when hidden, minimized or motion is reduced. Desktop visual acceptance, DPI/resize and original capture/nav motion are pending.
 
 The desktop Material color roles follow Android Color.kt and Theme.kt at `5b05604861a3e7d236b820e603c620deea61fe93`.
+
+Desktop controls use Hugeicons Free Stroke Rounded 4.4.0 from Android main at 5b05604. The 18dp rail mark sits above the icon buttons. Collapse navigation hides the desktop panel and the toolbar restores it.

diff --git a/CHANGES.md b/CHANGES.md
@@ -1,5 +1,7 @@
 # Changes
 
+Reduced the rail and Alter mark, matched the navigation surface to Workspace details, and added a rail collapse button with a persistent toolbar restore control. Desktop icons use the Android rounded Hugeicons set with a chat bubble for conversations.
+
 ## Desktop palette correction
 
 Applied the Android dark and light Material schemes throughout the desktop UI, including the rail, sidebar, chat composer, dialogs and settings.
